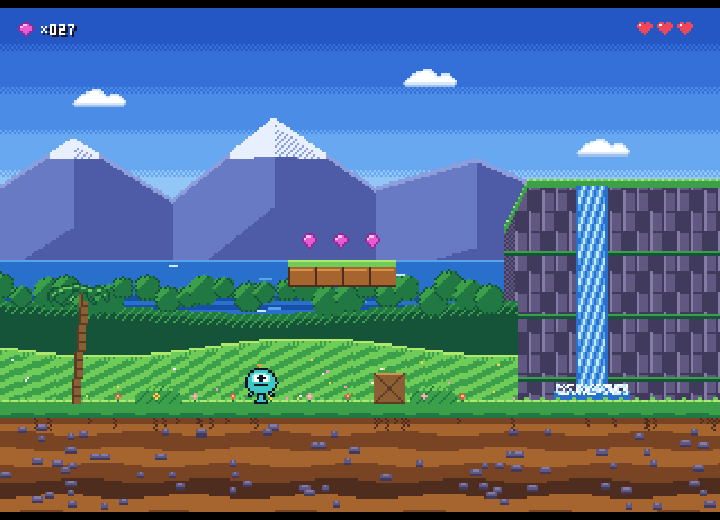
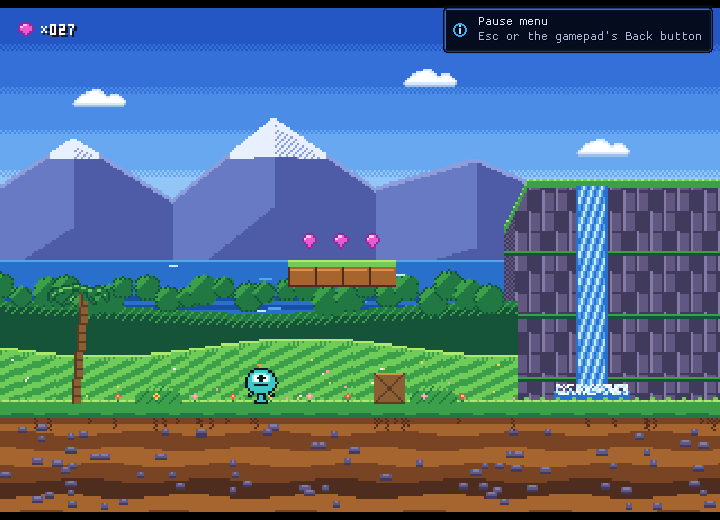
Viewer: a start-up toast says how to open the pause menu
The first picture of a session now shows a toast for six seconds: "Pause menu: Esc or the
gamepad's Back button" (plus the custom menu key when one is set), in the normal top-right
toast style. It never replaces a toast that is already showing and does not affect input,
pacing or the picture.

Tests: sv_host_test checks the hint after the first frame; the byte-exact Pixel Perfect and
SMS geometry measurements clear it first (they measure the picture, not overlays). The gallery
keeps it in 01_gameplay only; captures refreshed.

Changed region(s): [[0.6111, 0.0, 1.0, 0.1231]]

diff --git a/libs/viewer/test/sv_host_test.c b/libs/viewer/test/sv_host_test.c
@@ -199,6 +199,9 @@ int main(void) {
   s.video.scale = SV_SCALE_INTEGER;
   sv_host_apply_settings(host, &s);
   CHECK(sv_host_present(host, frame, 320, 224, 320 * 3) == 0, "present a 320x224 frame");
+  CHECK(strstr(host->toast, "Pause menu: Esc") != NULL && strstr(host->toast, "Back") != NULL && host->toast_until > SDL_GetTicks(),
+        "the first picture shows a hint naming the keys that open the pause menu");
+  sv_host_toast(host, ""); /* the byte-exact check below is about the picture, not the overlay */
   a = sv_host_capture_output(host);
   CHECK(a != NULL && a->w >= 640 && a->h >= 448, "the window is at least 2x the picture");
   ok = a != NULL;
@@ -425,8 +428,9 @@ int main(void) {
     CHECK((smp.pad[1] & SV_ACTION_BIT(SV_ACT_LEFT)) && (smp.pad[1] & SV_ACTION_BIT(SV_ACT_BUTTON1)) && !(smp.pad[0] & SV_ACTION_BIT(SV_ACT_LEFT)), "SMS Player 2 keys reach the second port");
     key_event(SV_KEY_J, 0, 0); key_event(SV_KEY_U, 0, 0);
     sv_host_service(host, &smp);
-    /* geometry of the two active heights */
-    sv_host_present(host, sms, 256, 192, 256 * 3);
+    /* geometry of the two active heights (measured on the picture: the start-up hint toast is cleared first) */
+    sv_host_present(host, sms, 256, 192, 256 * 3); /* this host's first picture: it raises the hint */
+    sv_host_toast(host, "");
     a = sv_host_capture_output(host);
     { int minx = 9999, maxx = -1, miny = 9999, maxy = -1;
       for (y = 0; y < a->h; ++y) for (x = 0; x < a->w; ++x) { px(a, x, y, &r, &g, &bl); if (r > 128) { if (x < minx) minx = x; if (x > maxx) maxx = x; if (y < miny) miny = y; if (y > maxy) maxy = y; } }

diff --git a/libs/viewer/src/sv_host.c b/libs/viewer/src/sv_host.c
@@ -814,6 +814,12 @@ int sv_host_present(SvHost *h, const uint8_t *rgb, int w, int hgt, int pitch) {
   h->last_w = w;
   h->last_h = hgt;
   h->frames_presented++;
+  if (h->frames_presented == 1 && h->toast[0] == '\0') { /* first picture: say once how to reach the pause menu (the keys that actually open it) */
+    const char *custom = h->settings.menu_key > 0 && h->settings.menu_key != SV_KEY_ESCAPE ? SDL_GetScancodeName((SDL_Scancode)h->settings.menu_key) : NULL;
+    if (custom != NULL && *custom != '\0') snprintf(h->toast, sizeof h->toast, "Pause menu: Esc, %.24s or the gamepad's Back button", custom);
+    else snprintf(h->toast, sizeof h->toast, "Pause menu: Esc or the gamepad's Back button");
+    h->toast_until = SDL_GetTicks() + 6000u;
+  }
   if (h->last_present_ns != 0) h->frame_ms = h->frame_ms * 0.9 + (double)(now - h->last_present_ns) / 1.0e6 * 0.1;
   h->last_present_ns = now;
   h->fps_frames++;

diff --git a/libs/viewer/test/sv_gallery.c b/libs/viewer/test/sv_gallery.c
@@ -200,7 +200,8 @@ int main(int argc, char **argv) {
   rgb = (uint8_t *)malloc((size_t)w * (size_t)h * 3u);
   scene(rgb, w, h);
   sv_host_present(host, rgb, w, h, w * 3);
-  save(sv_host_capture_output(host), "01_gameplay");
+  save(sv_host_capture_output(host), "01_gameplay");  /* with the start-up hint toast (how to open the pause menu) */
+  sv_host_toast(host, "");                           /* the other captures show the picture and menus without it */
   /* the CRT presets on the same picture */
   s = *sv_host_settings(host);
   for (i = 0; i < 4; ++i) {

diff --git a/docs/product/viewer-ui.md b/docs/product/viewer-ui.md
@@ -69,6 +69,9 @@ notices. Only viewer `src/` and `include/` ship, not gallery/test sources.
 * **Text.** The body face stays ProggyClean (MIT) and headings Silkscreen (OFL): candidates were rendered and rejected (GNU Unifont as packaged here is GPL-2+
   only; Pixelify Sans draws 5 like S, unreadable in values). Fewer all-caps strings ("Live preview", "On/Off").
 
+**Start-up hint.** The first picture of a session shows a toast for six seconds saying how to open the pause menu ("Esc or the gamepad's Back
+button", plus the custom menu key when one is set). It uses the normal toast (top right, small) and never replaces a toast that is already showing.
+
 **Review picture.** The gallery's picture (`libs/viewer/test/sv_gallery_scene.c`, generated by `tools/gen_gallery_scene.py`) is an original, fictional
 pixel-art landscape at 320x224, 256x192 and 256x224 (no game, ROM, screenshot or third-party sprite). It is compiled into `sv_gallery` only, never into the
 viewer library, a game or a package, and never drawn over a real picture; it is a review fixture, not emulator progress.
